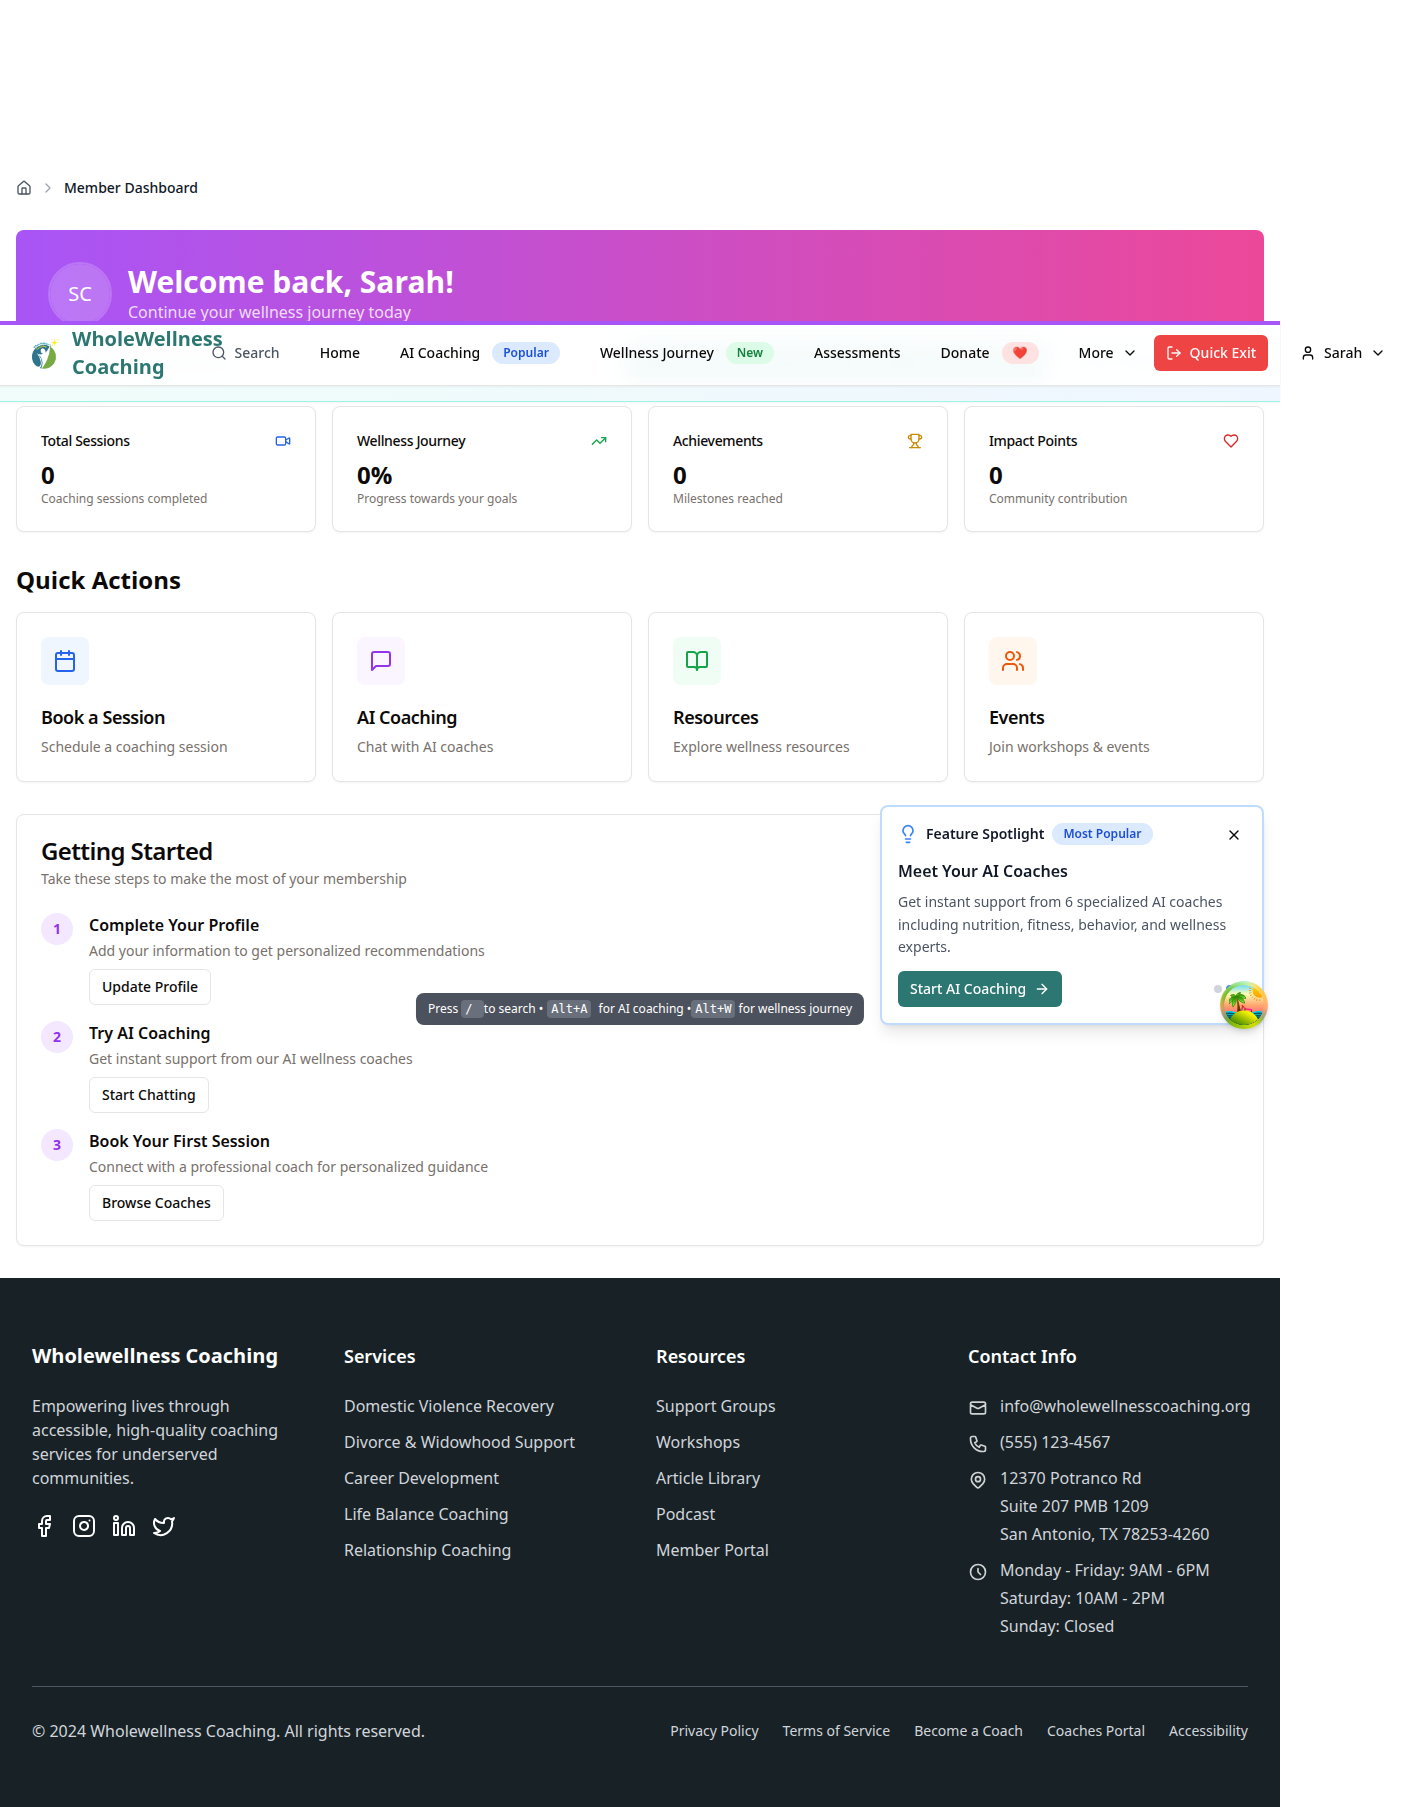
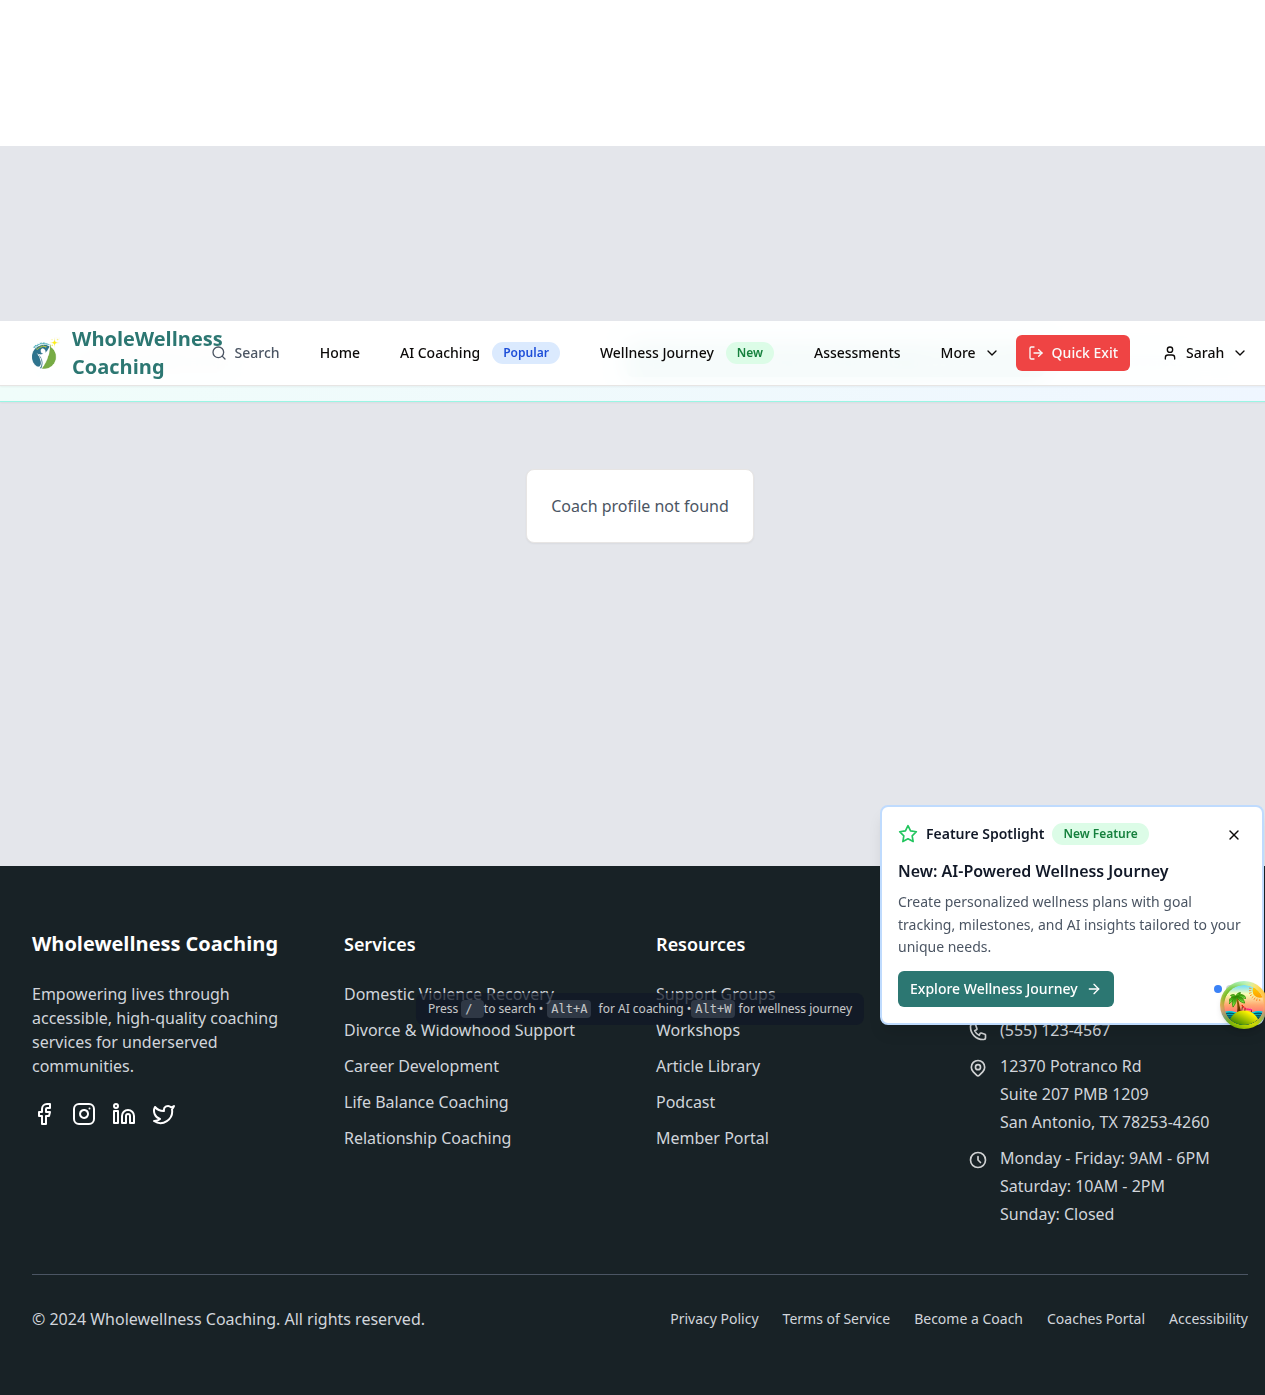
Update user retrieval method and add last login tracking
Refactor `getUser` to `getUserById` in `DrizzleStorage` and update usage across services. Add `updateUserLastLogin` functionality to track user activity.

Replit-Commit-Author: Agent
Replit-Commit-Session-Id: 24d5f139-8fcf-4394-89e7-d650f9a13a84
Replit-Commit-Checkpoint-Type: intermediate_checkpoint
Replit-Commit-Screenshot-Url: https://storage.googleapis.com/screenshot-production-us-central1/1c3e867c-742d-4c0d-a15a-67f7c63dc741/24d5f139-8fcf-4394-89e7-d650f9a13a84/YSe394R

diff --git a/server/routes.ts b/server/routes.ts
@@ -230,7 +230,7 @@ export async function registerRoutes(app: Express): Promise<Server> {
 
   // Session management functions
   async function createSession(userId: string): Promise<string> {
-    const user = await storage.getUser(userId);
+    const user = await storage.getUserById(userId);
     if (!user) {
       throw new Error('User not found');
     }
@@ -355,7 +355,7 @@ export async function registerRoutes(app: Express): Promise<Server> {
       }
       
       // Update last login
-      await donationStorage.updateUser(user.id, { lastLogin: new Date() });
+      await storage.updateUser(user.id, { lastLogin: new Date() });
       
       // Create session
       const sessionToken = await createSession(user.id);
@@ -1501,7 +1501,7 @@ When to refer to licensed therapists and emergency resources for relationship cr
     
     // Fetch complete user data from database to ensure role is included
     try {
-      const user = await storage.getUser(req.user.id);
+      const user = await storage.getUserById(req.user.id);
       if (!user) {
         return res.status(404).json({ message: 'User not found' });
       }
@@ -1888,7 +1888,7 @@ When to refer to licensed therapists and emergency resources for relationship cr
       }
 
       // Create or retrieve Stripe customer
-      const user = await storage.getUser(userId);
+      const user = await storage.getUserById(userId);
       if (!user) {
         return res.status(404).json({ message: 'User not found' });
       }
@@ -3249,7 +3249,7 @@ When to refer to licensed therapists and emergency resources for relationship cr
   // Get current user profile
   app.get("/api/user/profile", requireAuth as any, async (req: any, res) => {
     try {
-      const user = await storage.getUser(req.user.id);
+      const user = await storage.getUserById(req.user.id);
       if (!user) {
         return res.status(404).json({ message: "User profile not found" });
       }
@@ -3267,7 +3267,7 @@ When to refer to licensed therapists and emergency resources for relationship cr
   app.get("/api/user/profile/:userId", optionalAuth as any, async (req: any, res) => {
     try {
       const { userId } = req.params;
-      const user = await storage.getUser(userId);
+      const user = await storage.getUserById(userId);
       
       if (!user) {
         return res.status(404).json({ message: "User not found" });

diff --git a/server/coach-earnings-system.ts b/server/coach-earnings-system.ts
@@ -15,7 +15,7 @@ export class CoachEarningsSystem {
   static async trackEarnings(userId: string, amount: number, source: string = 'session'): Promise<void> {
     try {
       // Get current user
-      const user = await storage.getUser(userId);
+      const user = await storage.getUserById(userId);
       if (!user) {
         throw new Error('User not found');
       }
@@ -107,7 +107,7 @@ export class CoachEarningsSystem {
    */
   static async checkCoachEligibility(userId: string): Promise<boolean> {
     try {
-      const user = await storage.getUser(userId);
+      const user = await storage.getUserById(userId);
       if (!user) return false;
       
       return (user.donationTotal || 0) >= 99.00;
@@ -122,7 +122,7 @@ export class CoachEarningsSystem {
    */
   static async getEarningsSummary(userId: string): Promise<CoachEarnings | null> {
     try {
-      const user = await storage.getUser(userId);
+      const user = await storage.getUserById(userId);
       if (!user) return null;
       
       return {
@@ -142,7 +142,7 @@ export class CoachEarningsSystem {
    */
   static async manualCoachUpgrade(adminUserId: string, targetUserId: string, reason: string = 'Manual upgrade'): Promise<void> {
     try {
-      const targetUser = await storage.getUser(targetUserId);
+      const targetUser = await storage.getUserById(targetUserId);
       if (!targetUser) {
         throw new Error('Target user not found');
       }

diff --git a/server/drizzle-storage.ts b/server/drizzle-storage.ts
@@ -17,11 +17,11 @@ class DrizzleStorage implements Partial<IStorage> {
     }
   }
 
-  async getUser(id: string): Promise<User | undefined> {
+  async getUserById(id: string): Promise<User | undefined> {
     try {
-      console.log('[DrizzleStorage] getUser called with ID:', id);
+      console.log('[DrizzleStorage] getUserById called with ID:', id);
       const result = await db.select().from(users).where(eq(users.id, id)).limit(1);
-      console.log('[DrizzleStorage] getUser result:', result[0] ? `Found user ${result[0].email}` : 'No user found');
+      console.log('[DrizzleStorage] getUserById result:', result[0] ? `Found user ${result[0].email}` : 'No user found');
       return result[0];
     } catch (error) {
       console.error('[DrizzleStorage] Error getting user by ID:', error);
@@ -50,6 +50,18 @@ class DrizzleStorage implements Partial<IStorage> {
     } catch (error) {
       console.error('Error updating user:', error);
       return undefined;
+    }
+  }
+
+  async updateUserLastLogin(userId: string): Promise<void> {
+    try {
+      console.log('[DrizzleStorage] updateUserLastLogin called for:', userId);
+      await db
+        .update(users)
+        .set({ lastLogin: new Date(), updatedAt: new Date() })
+        .where(eq(users.id, userId));
+    } catch (error) {
+      console.error('[DrizzleStorage] Error updating last login:', error);
     }
   }
 }

diff --git a/server/test-coach-upgrade.ts b/server/test-coach-upgrade.ts
@@ -12,7 +12,7 @@ async function testCoachUpgrade() {
     const testUserId = '76703324-b93e-45f6-a893-44f0e0ee41d9'; // coachchuck@wwctest.com
     
     // Get current user status
-    const userBefore = await storage.getUser(testUserId);
+    const userBefore = await storage.getUserById(testUserId);
     if (!userBefore) {
       console.error('❌ Test user not found');
       return;
@@ -29,7 +29,7 @@ async function testCoachUpgrade() {
     await CoachEarningsSystem.trackEarnings(testUserId, 99.00, 'test_application_fee');
     
     // Get updated user status
-    const userAfter = await storage.getUser(testUserId);
+    const userAfter = await storage.getUserById(testUserId);
     if (!userAfter) {
       console.error('❌ User not found after upgrade');
       return;

diff --git a/server/admin-certification-routes.ts b/server/admin-certification-routes.ts
@@ -16,7 +16,7 @@ export function registerAdminCertificationRoutes(app: Express) {
       // Transform data for admin view
       const enrollmentDetails = await Promise.all(
         enrollments.map(async (enrollment: any) => {
-          const user = await storage.getUser(enrollment.userId);
+          const user = await storage.getUserById(enrollment.userId);
           const courses = await storage.getCertificationCourses();
           const course = courses.find((c: any) => c.id === enrollment.courseId);
           

diff --git a/server/admin-dashboard-routes.ts b/server/admin-dashboard-routes.ts
@@ -417,7 +417,7 @@ router.get('/sessions', requireAdminAuth, requireSuperAdmin, async (req: Authent
     // Enhance with user data
     const sessionsWithUsers = await Promise.all(
       sessions.map(async (session) => {
-        const user = await storage.getUser(session.userId);
+        const user = await storage.getUserById(session.userId);
         return {
           ...session,
           user: user ? {

diff --git a/server/admin-auth.ts b/server/admin-auth.ts
@@ -211,7 +211,7 @@ export class AdminAuthService {
       }
 
       // For now, use regular user storage since admin storage may not exist
-      const user = await storage.getUser(decoded.adminId);
+      const user = await storage.getUserById(decoded.adminId);
       
       if (!user || !user.isActive || (user.role !== 'admin' && user.role !== 'super_admin')) {
         return null;

diff --git a/server/google-auth.ts b/server/google-auth.ts
@@ -72,7 +72,7 @@ export function setupGoogleAuth() {
   // Deserialize user from session
   passport.deserializeUser(async (id: string, done) => {
     try {
-      const user = await storage.getUser(id);
+      const user = await storage.getUserById(id);
       done(null, user);
     } catch (error) {
       done(error, null);
